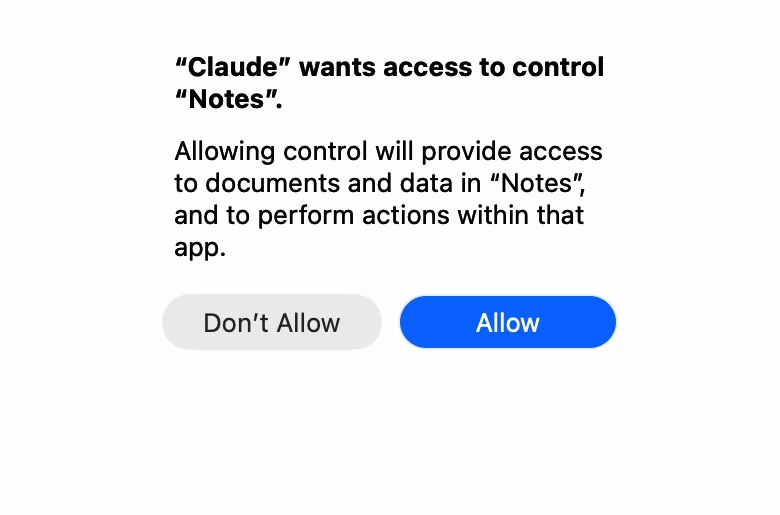
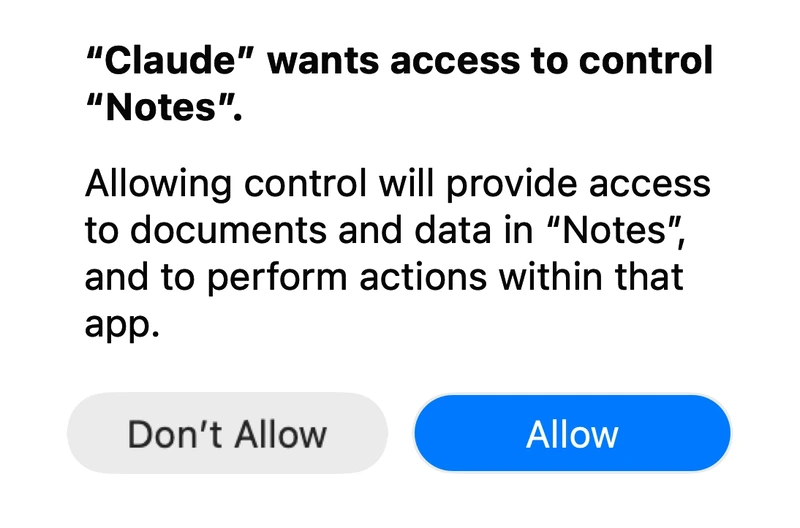
Blog: the Claude Cowork cover fills its card
The prompt is drawn at 4x, cropped tight and downsampled, so it spans about
85% of the panel like the Groceries cover. A fit option starts this card's
fade below the buttons so Allow isn't dimmed.

diff --git a/web/lib/posts.ts b/web/lib/posts.ts
@@ -33,9 +33,10 @@ export type Ground = "paper" | "soft" | "tint" | "amber" | "leaf" | "dark" | "du
 
 /// A card's picture: one real capture of the element the post is about, on the post's ground. The
 /// capture is cropped at 2x (3x from iPhone) to about the card's width, so it shows at full size.
-export type Thumb = { ground: Ground; src: string; width: number; height: number };
+/// `fit`: a capture whose last line (a prompt's buttons) must stay clear, so its fade starts lower.
+export type Thumb = { ground: Ground; src: string; width: number; height: number; fit?: boolean };
 
-const thumb = (ground: Ground, name: string, width: number, height: number): Thumb => ({ ground, src: `/blog/${name}.webp`, width, height });
+const thumb = (ground: Ground, name: string, width: number, height: number, fit = false): Thumb => ({ ground, src: `/blog/${name}.webp`, width, height, ...(fit ? { fit } : {}) });
 
 export const AUTHOR = { name: "Emil Wagman", avatar: "/emil-wagman.jpg" };
 
@@ -70,7 +71,7 @@ export const posts: Post[] = [
     date: "2026-10-01",
     updated: "2026-10-01",
     image: SHOTS.coworkAllow,
-    thumb: thumb("rose", "thumb-cowork-apple-notes", 780, 515),
+    thumb: thumb("rose", "thumb-cowork-apple-notes", 800, 528, true),
     draft: false,
   },
   {

diff --git a/web/lib/blog.module.css b/web/lib/blog.module.css
@@ -62,6 +62,9 @@
   -webkit-mask-size: 100% calc(62.5cqw - 20px); mask-size: 100% calc(62.5cqw - 20px);
   -webkit-mask-repeat: no-repeat; mask-repeat: no-repeat;
 }
+/* A capture that fills the card to its last line (a prompt down to its buttons): the same fade, just
+   over the last few pixels, so nothing it shows is dimmed. */
+.thumb[data-fit] img { -webkit-mask-image: linear-gradient(to bottom, #000 97%, transparent 100%); mask-image: linear-gradient(to bottom, #000 97%, transparent 100%); }
 /* In cards the grounds are quiet tints of the palette; the post's own picture keeps its fuller one. */
 .thumb[data-ground] { background: #fbeedd; box-shadow: none; }
 .thumb[data-ground="paper"] { background: #fbf6ef; }

diff --git a/web/lib/blog.tsx b/web/lib/blog.tsx
@@ -52,7 +52,7 @@ export function Figure({ shot, caption, priority, ground = "soft" }: { shot: Sho
 /// edge (the card's corners clip it) and running off the bottom. Shown at about full size.
 export function ThumbArt({ thumb }: { thumb: Thumb }) {
   return (
-    <div className={`${b.thumb} ${b.ground}`} data-ground={thumb.ground} aria-hidden="true">
+    <div className={`${b.thumb} ${b.ground}`} data-ground={thumb.ground} data-fit={thumb.fit ? "" : undefined} aria-hidden="true">
       <img src={thumb.src} alt="" width={thumb.width / 2} height={thumb.height / 2} loading="lazy" decoding="async" />
     </div>
   );

diff --git a/docs/Evidence/growth-log.md b/docs/Evidence/growth-log.md
@@ -5,6 +5,14 @@ assistants. Newest first. Research behind it: [seo-aeo-research-2026-09-30.md](s
 
 `docs/` had no README naming a folder for evidence, so this and the research live in `docs/Evidence/`.
 
+## 1 October 2026: the Claude Cowork cover fills its card
+
+- Emil flagged that the prompt sat small in the middle third of its panel. The other covers fill theirs.
+- It's now drawn at 4x, cropped to the title, message and buttons, and downsampled, so it stays sharp. It spans about 85% of the panel width, like the Groceries cover. At card size the title is about the size of "Groceries" there.
+- A prompt down to its buttons is taller for its width than the other captures, so the card's usual fade would have dimmed Don't Allow and Allow. A new `fit` option on a card's picture fades only its last few pixels. Only this card uses it.
+- Compared at the same size beside the Groceries and Gemini cards (`compare-1440.png`).
+- The blue Allow, the rose ground and the share card carry over.
+
 ## 1 October 2026: the Claude Cowork cover, redrawn
 
 - The first Cowork cover was a status infographic with system-coloured icons, and it echoed the stepped list on "Can Claude read your Apple Notes?". It's replaced with a real moment: the macOS prompt that asks you to let Claude control Notes. The extension needs that permission the first time.
